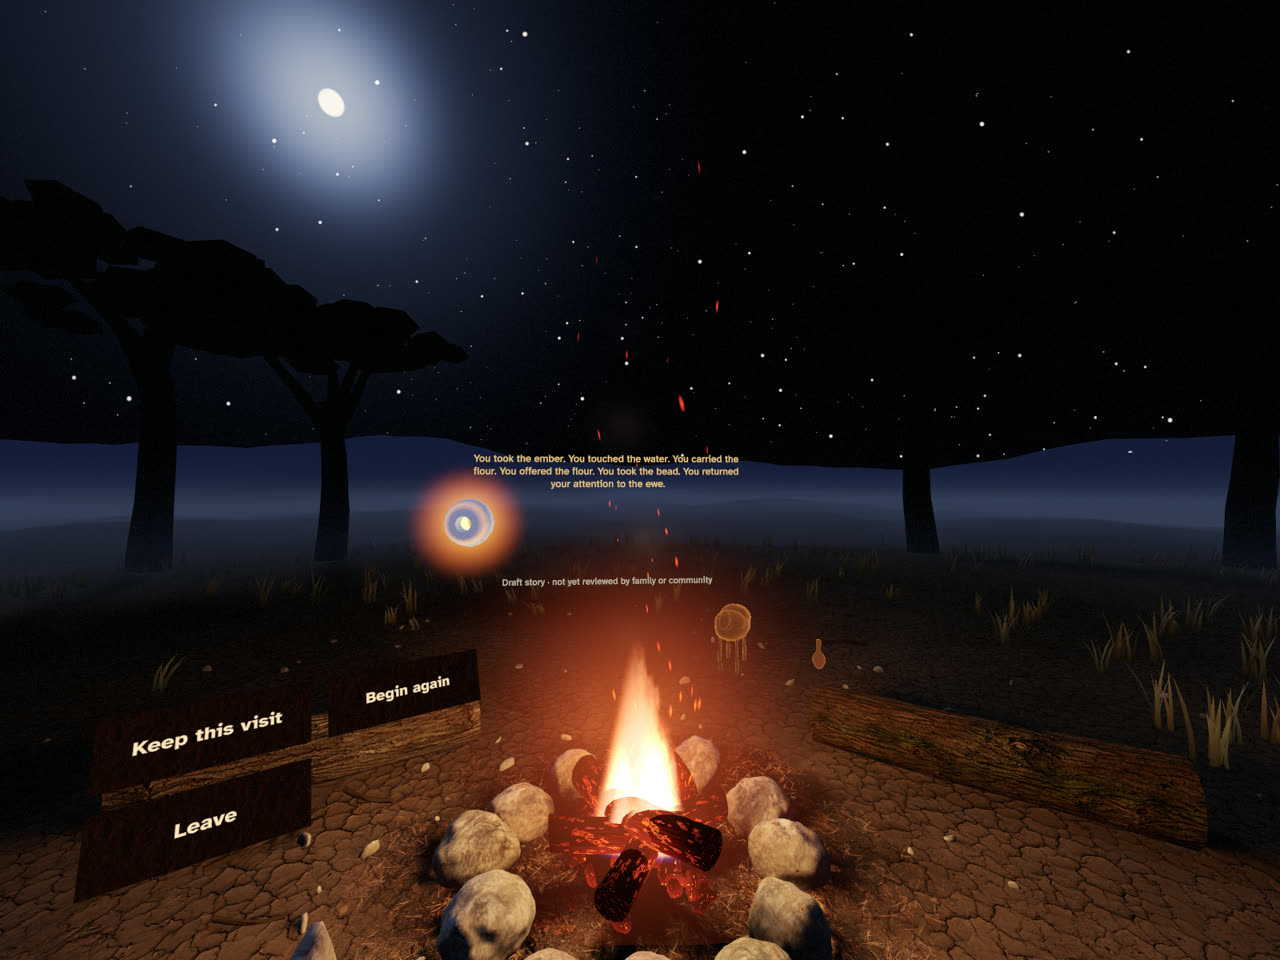
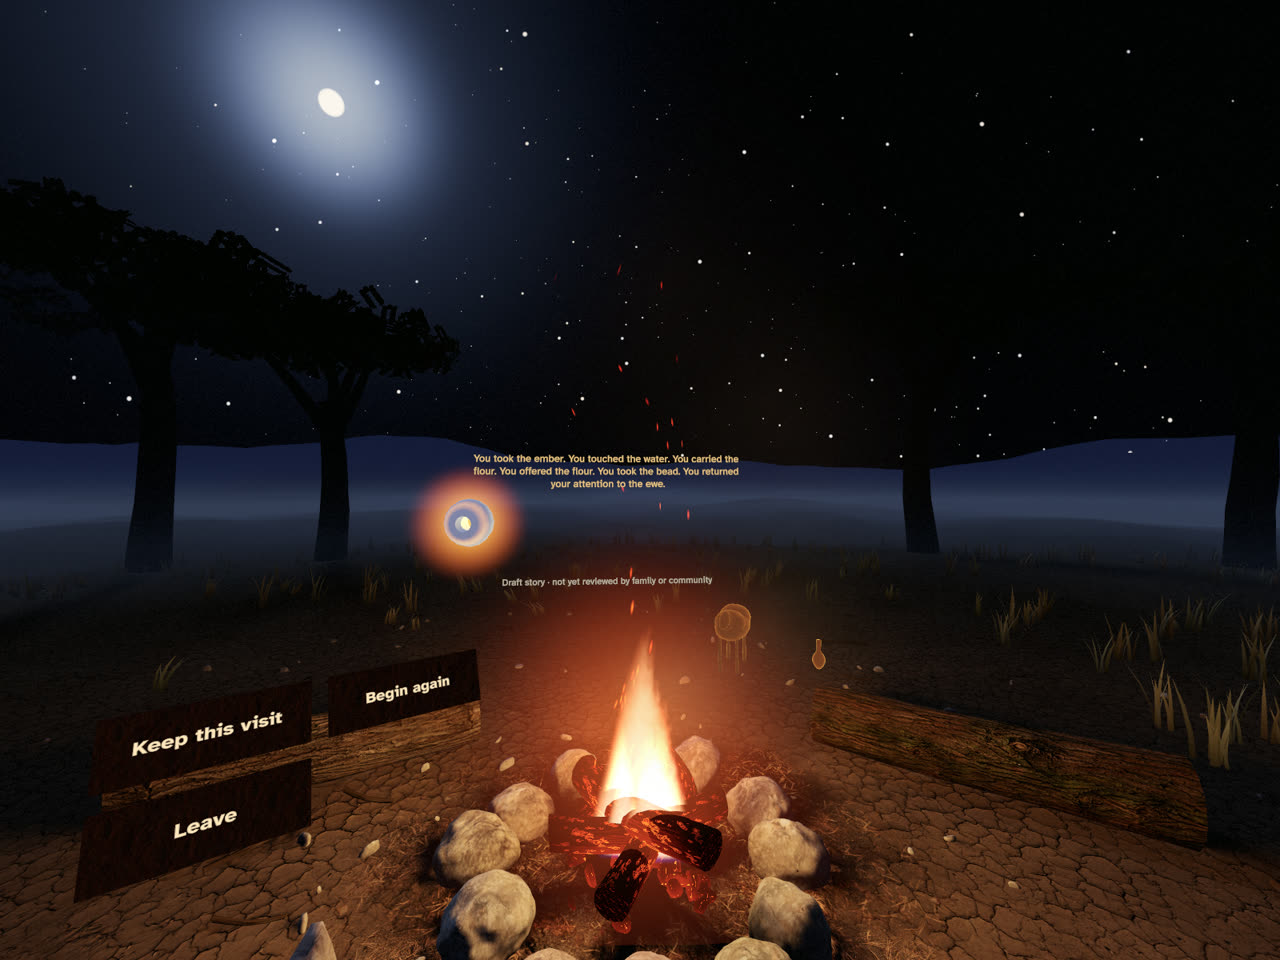
docs: record clothing and foliage verification with updated gallery

diff --git a/unity/README.md b/unity/README.md
@@ -83,10 +83,10 @@ SANKOFA_CAPTURE=1 "$UNITY" -batchmode -projectPath "$PWD/unity" -buildTarget And
 - **Choosing.** Every button can be pressed with a fingertip, or from the seat by pointing and pinching. With Touch controllers, point and pull the trigger. A select lands when the pinch or trigger is released over the same button, so sweeping across buttons presses nothing. In the editor with no headset, the mouse points.
 - **Welcome.** The fire speaks: "Come. Sit with me." It then asks when to go: *Before the railway* or *When the railway came*. The visitor can choose during the welcome. Without input the fire waits at the hearth.
 - **Entry.** The fire rises into a curtain of warm light, and the stream where the forest meets the plain surrounds the stationary visitor. The camera never moves. The ember crosses into the scene as the traders' fire or the camp lantern.
-- **The story.** People and the ewe are shapes of firelight; they have no faces, so no likeness is drawn. They walk in along paths over the ground when they appear, go where the story sends them (Wambui and Naserian kneel at the hide to trade; Njeri goes to Naisula's side), and walk away when they part. Each era has a hand moment: a gourd held out to an open palm (with a nearby button), and then touching the water, the trading hide or the rails. Lines after it differ by what the visitor did. Without input, a passive default plays, and the fire never says the visitor chose it.
+- **The story.** People are fictional composites with generic CC0 faces and project-made clothing; the ewe is a shape of firelight. No real-person likeness is claimed. They walk in along paths over the ground when they appear, go where the story sends them (Wambui and Naserian kneel at the hide to trade; Njeri goes to Naisula's side), and walk away when they part. Each era has a hand moment: a gourd held out to an open palm (with a nearby button), and then touching the water, the trading hide or the rails. Lines after it differ by what the visitor did. Without input, a passive default plays, and the fire never says the visitor chose it.
 - **Questions.** A panel by the right hand offers authored questions, including one about whatever the visitor has been looking at. An answer interrupts and then resumes the story from a safe boundary. Head direction is recorded only as a signal, never as consent or eye tracking.
 - **Return.** The world folds back through the light, and the keepsake (a bead or a seed bundle) rests on the right hearth stone. **Keep this visit**, Begin again or Leave.
-- **Kept visits.** Only an explicit Keep saves a visit, as one local file. The welcome back then offers the kept visit to replay exactly, follow to the same water today, start a new story, or forget it, after a confirmation. Today recalls only what was kept.
+- **Kept visits.** Only an explicit Keep saves a visit, as one local file. The welcome back then offers the kept path and outcomes to replay (questions and interruption timing are not replayed), follow to the same water today, start a new story, or forget it, after a confirmation. Today recalls only what was kept.
 - **Interruption.** Pause (button, headset removal or the system menu) stops speech and freezes every timer, and the figures, the ewe, the traffic and incidental sounds hold still. Resume restarts the line from its start without repeating its actions. **Return to the fire** leaves the story at any point and is never recorded as finishing it.
 - **Settings.** Caption size, reduced motion (a short dim dissolve with no rising fire), ambience level (full, low or off), recenter, and in development builds the fire comparison below.
 
@@ -98,7 +98,7 @@ The hearth's geometry and lighting are generated from code, with no AI-generated
 
 Lighting is two-toned: the warm fire, whose centre wanders a few centimetres, and faint cool moonlight with rim light and low mist over the distance. Soft fire shadows, moon shadows and ambient occlusion are ray-traced once by `SankofaBake` into vertices, because neither the fire nor the moon moves relative to the hearth. Every shader ends with a shared grade (`SankofaGrade.cginc`) in place of post-processing: a filmic tone curve so the flame rolls off rather than clipping, slight desaturation, a multiplicative split tone, and dithering against banding.
 
-Static pieces are combined per material, about ten draw calls and 173,000 triangles in total, of which the distant tree canopies are 66,000 and the first to cut if profiling requires.
+Static pieces are combined per material. The current scene costs are recorded in the decision log and verified by EditMode checks; these geometry proxies do not establish actual Quest performance. Canopies use small three-dimensional sprig clusters with two-sided cutout leaves, depth writes, restrained wind and coverage-preserving texture mipmaps. Rectangular leaf cards are excluded from the shadow bake so they cannot cast solid rectangular shadows. Alpha overdraw still needs device profiling.
 
 ## How the story scenes are made
 
@@ -109,13 +109,13 @@ The three scenes in [the scene scope](../docs/content/enkare-nairobi/scenes.md) 
 - **When the railway came.** The bank is trampled and cut. Bell tents and timber stand across the stream, an embankment runs beyond, and a crib of sleepers and rails is within reach.
 - **Today.** The river runs between a raised garden bed, a stall with a charcoal *jiko*, a painted gate, streetlights and a city whose windows come from world position in the City shader.
 
-People use a skinned CC0 base character and hair from Quaternius's *Universal Base Characters*, with compatible motion from the *Universal Animation Library* (`Art/Figures`). Project-made fitted tops and folded wraps share the skeleton. `EmberFigure.shader` lights matte bronze skin and quiet woven cloth from the scene's fire/lantern, ambient and moon; a restrained ember outline connects them to the fire. A depth pre-pass prevents layered surfaces doubling their light. Generic faces, short hair and clothing are theatrical drafts awaiting family/context review. Family lines retain distinct warm garment colours.
+People use a skinned CC0 base character and hair from Quaternius's *Universal Base Characters*, with compatible motion from the *Universal Animation Library* (`Art/Figures`). Project-made fitted tops and folded wraps share the skeleton. Collar and sleeve weights follow the source joints; covered body faces are removed after garment derivation to prevent skin poking through. `EmberFigure.shader` lights matte bronze skin and quiet woven cloth from the scene's fire/lantern, ambient and moon; a restrained ember outline connects them to the fire. A depth pre-pass prevents layered surfaces doubling their light. Generic faces, short hair and clothing are theatrical drafts awaiting family/context review. Family lines retain distinct warm garment colours.
 
 `FigureMotion` walks a figure along paths baked from the terrain and drives its animator: walk, idle, a kneel at work, a reach to give, and talking gestures. What a figure carries follows her hand or neck bone. The story moves a figure with a `move` action to an object's approach point; that point says whether one stands or kneels there. The ewe is still a procedural shape posed by the shader.
 
 Water uses an opaque `Water.shader`: there is no transparency cost, and it reflects the sky and glints in the scene's warm light and moonlight. Each scene has its own ambience of field recordings (`StoryAmbience`; see the [asset register](../docs/asset-register.md)): a brook, Maasai Mara crickets and birds, wind in grass, a distant animal bell, the traders' small fire, canvas, and a matatu stage and far city today. The ewe bleats and hammering sounds along the line now and then (`ObjectSound`). No recorded voices are placed in the past, since the people whose languages they would be have not been asked. It ducks under the narrator like the night at the hearth.
 
-The people gesture through their animator and two-bone arm posing. Hand anchors follow the skeleton, gifts remain offered until taken, and the authored sharing scene settles both gourds, tilts the giver's, pours between their actual openings and releases. These gestures do not advance story state. The ewe retains its procedural gait and shader posing. Stage-relative targets survive recentering and height changes; pausing freezes the exchange clock.
+The people gesture through their animator and two-bone arm posing. Hand anchors follow the skeleton, gifts remain offered until taken, and the authored sharing scene settles both gourds, tilts the giver's, pours between their actual openings and releases. `FigurePresence` adds staggered blinks and held-object finger poses, returning the hand to rest when its object leaves. These gestures do not advance story state and use the paused stage clock. The ewe retains its procedural gait and shader posing. Stage-relative targets survive recentering and height changes; pausing freezes the exchange clock.
 
 Captions and control labels use TextMeshPro's signed-distance-field type in Atkinson Hyperlegible, a typeface designed for low-vision readability (LiberationSans is the fallback for missing glyphs), which stays crisp at any distance in a headset. Captions sit on a soft dark backing fitted to the line, with a thin outline for contrast against flame and sky; a medium caption line subtends at least one degree from the seat, which the PlayMode test checks. The control panels are firelit wooden plaques with warm labels of one consistent size.
 

diff --git a/docs/asset-register.md b/docs/asset-register.md
@@ -8,10 +8,11 @@ The current build uses project-made, generated and SDK-provided material; Quater
 | `unity/Assets/Sankofa/Art/Generated/*.mat` | Materials for the hearth and the Enkare Nairobi scenes (water, ember figures, city, gourds, hide, canvas, rail steel, soil) | Generated by `SankofaArt` | Project-authored | Desktop renders only; no context review |
 | `unity/Assets/Sankofa/Art/Generated/Noise.asset` | Flame, curtain, smoke and sky motion | Seeded value noise generated by `SankofaArt` | Project-authored | Not device-reviewed |
 | `unity/Assets/Sankofa/Art/Generated/Detail.asset` | Grain in earth, stone, bark and char | Seeded fractal height and normal map generated by `SankofaArt` | Project-authored | Not device-reviewed |
+| `unity/Assets/Sankofa/Art/Generated/Foliage.asset` | Leaf sprigs on three-dimensional canopy clusters | Original deterministic leaf artwork generated by `SankofaArt`; cutout alpha with coverage-preserving mipmaps | Project-authored | Desktop review only; generic foliage, not verified botanical reconstruction; alpha overdraw needs device profiling |
 | `unity/Assets/Sankofa/Art/Generated/Meshes` | Hearth; the stream between forest and plain (1850s, 1899), its camp, and the river in the city today: terrain, water, trees and acacias, stones, gourds, hide, rails, tents, gate, *jiko*, city blocks, ember-and-smoke figures | Generated by `SankofaMeshes` and `SankofaStoryMeshes`; occlusion and light shadows baked by `SankofaBake` | Project-authored | Desktop renders only; forms of gourds, hide, figures, tents and the city need family and context review; not profiled on a headset |
 | `unity/Assets/Sankofa/Art/Figures/UAL1_Standard.fbx` | Walk, idle, kneel (`Fixing_Kneeling`), reach (`Interact`) and talk animation; the library mannequin is no longer the visible body | Quaternius, [Universal Animation Library](https://quaternius.com/packs/universalanimationlibrary.html), free Standard tier, downloaded October 8, 2026. Archive and file hashes in `sources.json`; raw archive in ignored `vendor/quaternius/` | CC0 1.0, bundled `UAL-License.txt` | Generic animation paths verified against the new skeleton; desktop poses only; no headset review |
 | `unity/Assets/Sankofa/Art/Figures/Superhero_Female_FullBody.fbx` and `Hair_BuzzedFemale.fbx` | Generic fictional women with anatomical faces, hands and short hair; base for project-made skinned clothing | Quaternius, [Universal Base Characters](https://quaternius.com/packs/universalbasecharacters.html), free Standard tier, downloaded October 10, 2026 (October 11 UTC). Exact archive/file hashes and transformations in `base-characters.sources.json` | CC0 1.0, bundled `License_Standard.txt`; normal free download, no paid tier or extra runtime dependency | Desktop standing, kneeling and exchange studies; generic anatomy, hair and dress are theatrical reconstruction pending family/cultural review; no real-person likeness claim |
-| `unity/Assets/Sankofa/Art/Generated/Figure*.asset` | Narrowed body, fitted skinned top and folded wrap | Derived by `SankofaFigures` from the CC0 base character/skeleton; covered leg geometry removed to avoid kneeling intersections | CC0 source permits modification and redistribution; garment construction project-authored | Desktop review; not verified historical clothing or device-accepted art |
+| `unity/Assets/Sankofa/Art/Generated/Figure*.asset` | Narrowed body, fitted skinned top, folded wrap, painted eyes and blink blendshape | Derived by `SankofaFigures` from the CC0 base character/skeleton; covered leg and torso geometry removed to avoid clothing intersections; collar and sleeves retain the artist's joint weights | CC0 source permits modification and redistribution; garment construction, eye paint and blink deformation project-authored | Desktop review; not verified historical clothing or device-accepted art |
 | `unity/Assets/Sankofa/Art/Recorded` | Every sound except the narration. Hearth: campfire, Maasai Mara crickets and night, wind in grass. Story scenes: the traders' small fire, a brook, the ewe's bleats, a distant animal bell, hammering on metal spikes, tent canvas in wind, a matatu stage in Nairobi, a far city | Freesound field recordings by matucha, SterckxS, selcukartut (Maasai Mara, Kenya), tim.kahn, celldroid, visualasylum, bruno.auzet, Yuval, BonnyOrbit, blacknoutproductions (Nairobi) and felix.blume. The user approved downloading the HQ previews on October 7, 2026. `scripts/prepare_recordings.py` trims them, folds them to mono, sets their level and crossfades loops; nothing is synthesised. Per-file source, licence, edit and SHA-256 hashes are in `sources.json` | CC0 1.0 (seven recordings); CC BY 3.0 or 4.0 (five, credited in [`credits.txt`](../unity/Assets/Sankofa/Content/credits.txt), shown in the app's settings) | Not listening-reviewed. The matatu recording has not been checked for incidental music. The bell and sheep are European recordings, for family review. No voices are placed in the past |
 | `unity/Assets/Sankofa/Resources/Narration/enkare-nairobi` | The griot's voice: 85 lines, about 15.7 minutes | Generated October 4, 2026; three passive/return lines revised and regenerated October 10, 2026 by `scripts/generate_narration.py` with Google Cloud Text-to-Speech, model `gemini-3.1-flash-tts-preview` (a preview model), voice Kore, using the original web Sankofa griot's delivery direction (the user's own work); per-line settings in `Content/enkare-nairobi.narration.json` | Google Cloud terms for generated output (customer owns the output per Google's terms; **to be confirmed before release**, including preview-model terms) | Development voice. The user preferred this model over 2.5 Flash/Pro in a listening comparison; no fluent-listener or community review; pronunciation of *Enkare Nairobi*, *oloirien* and the names unchecked |
 | `unity/Assets/TextMesh Pro` | Caption and label type, SDF text shaders | TextMeshPro essential resources shipped in Unity's `com.unity.ugui` 2.0.0 package; EmojiOne sprites removed | LiberationSans under the SIL Open Font License (`LiberationSans - OFL.txt`), whose notice must appear in the release credits; shaders under Unity's package terms | Captions and labels reviewed in desktop renders only |

diff --git a/docs/decisions.md b/docs/decisions.md
@@ -379,3 +379,15 @@ This pass responds to the October 9 independent panel and the user's request for
 Verification: **114 .NET checks, 19 EditMode checks and 11 PlayMode checks passed** on the final implementation. The full PlayMode run covers both eras, passive completion, input, keep/continue/path replay, stale echoes, early return, stage recovery and pouring, and renders the journey plus close-up standing, kneeling and sharing studies. EditMode checks additionally validate every skin weight, animation binding and the complete garment after Unity baking. The fit check exposed a read-only mesh clone that rejected geometry writes; generation now owns writable meshes and imports the required CPU geometry. Garments are authored against the weighted bind matrices.
 
 Visible scene budgets, counting both figure passes, are 123,877 triangles at the hearth, 261,968 before the railway, 222,536 in 1899 and 149,748 today (17–63 enabled renderers). These are geometry proxies, not measured device frame rates. No new judging panel or score was obtained. Actual Quest performance, cultural/context review, custom grip/facial acting and full realised question replay remain open. The changed figures are a new production base, not accepted historical costume or participant evidence.
+
+## Polish round 13: clothing, hands and living foliage — October 11, 2026
+
+The user asked to continue the visual work after round 12. This pass addresses SK-11 through the editor figure/mesh/material builders and `FigurePresence`, with SK-15 constraints enforced by the existing scene budget. The observable goals are cleaner animated clothing, a hand that closes around a carried object and opens on release, and crowns with visible leaf gaps and depth. These support Polish & Presentation and Experience Design; no device acceptance or new judging score is implied.
+
+- **Clothing:** collars and clean sleeve cuffs retain the source character's skin weights, and cloth hangs below the chest. The neckline follows the visible mesh rather than the lower neck joint. The full body remains available during garment derivation; only afterwards are covered torso and leg surfaces removed, preventing both skin intersections and a missing hip seam. A separate torso loft was rejected after the kneeling capture exposed a neck mismatch. Source weights proved more reliable than guessed joint blends. Historical costume and bespoke garment modelling remain open.
+- **Acting:** `FigurePresence` owns staggered blink deformations and finger poses over the library motion. Fingers curl toward the held object's opening or centre, the supporting hand participates during the exchange, and the hand opens when the object leaves. The stage clock freezes the acting on pause. The derived eye mesh includes project-authored pigment and a blink shape; this is limited acting, not a new facial performance rig.
+- **Materials:** fabric weave fades below pixel resolution to reduce distance shimmer. The artist's faces and anatomy remain the generic fictional base. No identifiable likeness or cultural review is claimed.
+- **Environment:** three-dimensional sprig clusters replace faceted crown solids. Original leaf artwork uses two-sided cutout rendering with depth writes, small wind motion and coverage-preserving mipmaps; it is not a camera-facing panorama. Leaf rectangles are excluded from the editor shadow bake, where they would otherwise cast solid rectangular shadows. The tradeoff is more foliage vertices and cutout overdraw, requiring real device profiling despite the lower triangle total.
+- **Generation:** figure caches reset for each scene build, including repeated menu use in one editor session. Imported assets, source licences and the local-only exclusion rules remain in place. No new paid dependency, runtime service, music or external asset download was added.
+
+Verification: **114 .NET checks, 20 EditMode checks and 12 PlayMode checks passed** on the final implementation. The added checks independently ray-test garment coverage around the waist, check the authored eye shape, pause during an observed blink, and verify that the held hand releases. The full journey captures and existing recovery/keep/replay checks also pass. Visible scene costs, counting both figure passes, are **126,985 triangles at the hearth, 243,292 before the railway, 204,980 in 1899 and 118,156 today**, with 17–63 enabled renderers. The review gallery compares the same journey view with round 12 (`e3788de`), with separate standing, kneeling and exchange pose studies. Software renders cannot establish Quest immersion, sustained performance, hand-tracking quality or cultural accuracy. Full question/interruption replay and the PRD's remaining personalised-story requirements remain open.

diff --git a/README.md b/README.md
@@ -39,7 +39,7 @@ Desktop renders from the seated eye, made by the capture test. They are not head
 
 ![The same 1899 journey view before and after the character and lighting revision](docs/media/figures-comparison.jpg)
 
-*Left: the previous build (`e2dbd82`). Right: the current character revision. Both are actual desktop journey captures with the same camera framing.*
+*Left: polish round 12 (`e3788de`). Right: the current character and foliage revision. Both are actual desktop journey captures with the same camera framing.*
 
 | Standing | Kneeling | Sharing |
 |---|---|---|
@@ -56,7 +56,7 @@ The full slice runs in software: a Unity project for Quest and an engine-free st
 | Story | Both eras and today are written, validated on every route, and narrated in 85 pre-rendered lines |
 | Interaction | Hands throughout: an open palm, touch, fingertip presses, or point and pinch. Touch controllers are optional |
 | Visits | A start screen, passive progression, questions and pause. Visits are kept only by explicit choice, and can replay the same path and outcomes, continue to today or be forgotten; questions and interruption timing are not replayed |
-| Figures | Skinned garments, walk/kneel/give performances, directed gourd sharing, and a glance when your attention rests on them |
+| Figures | Complete skinned tops and wraps, walk/kneel/give performances, directed gourd sharing, held-object finger poses, blinks, and a glance when your attention rests on them |
 | Sound | Field recordings (CC0 and CC BY, credited in the app). Nothing is synthesised, and there is no music |
 
 Not yet established:
